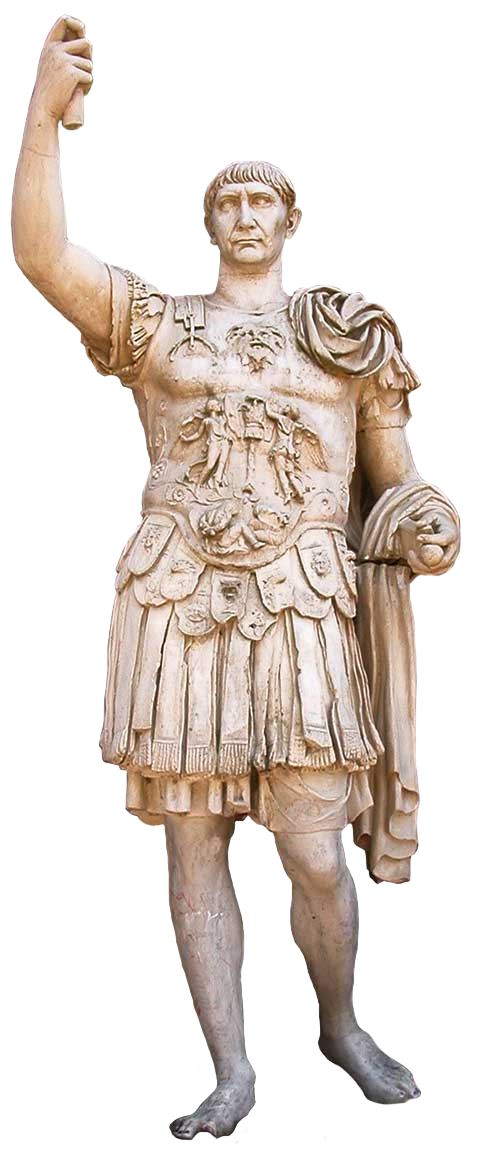
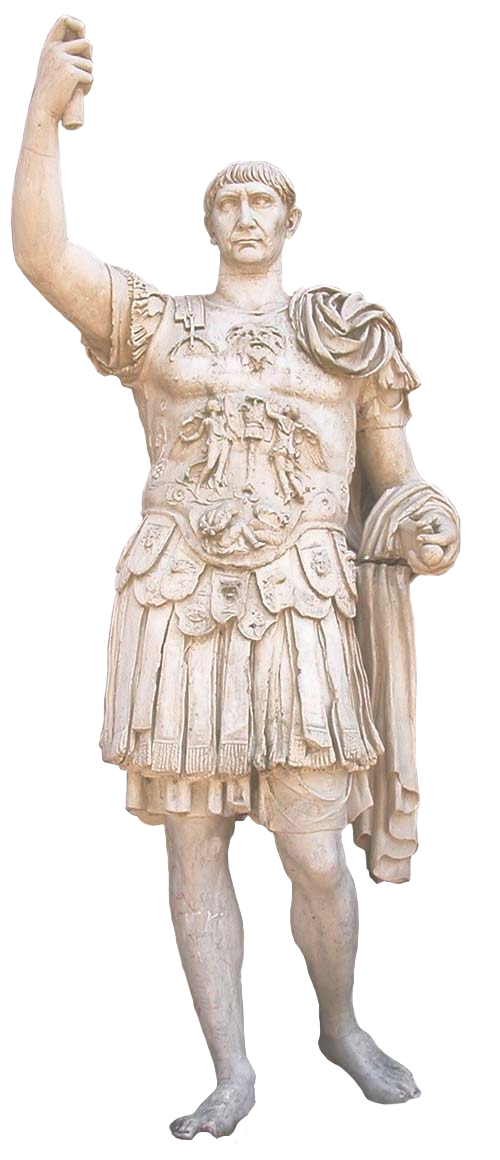
Updates

Changed region(s): [[0.0, 0.0, 0.93, 0.9931]]

diff --git a/src/app/views/reenact/getting-started/getting-started.component.html b/src/app/views/reenact/getting-started/getting-started.component.html
@@ -13,7 +13,7 @@
 			<div>
 				<h2 class="mb-2">Prologue</h2>
 				<p>Imagine yourself as part of a heavily armoured column of Roman soldiers slowly marching along a narrow forest road. The sun beats mercilessly down on you in-between the shadows, and the humming sound of cicadas rattles off of your helmet.</p>
-				<p>You vigilantly scan the dense brush for any sign of the Celtic rebels that have been haunting the area. As the column swings around a sharp bend, there is a sudden commotion to the front, and an officer screams, “shields up” just as a rain of missiles slams into you. No sooner have the projectiles bounced off of your shield than the order to form a battle line is shouted.</p>
+				<p>You vigilantly scan the dense brush for any sign of the Celtic rebels that have been haunting the area. As the column swings around a sharp bend, there is a sudden commotion to the front, and an officer screams, “shields up” just as a rain of missiles slams into you. No sooner have the projectiles clashed against your shield than the order to form a battle line is shouted.</p>
 				<p>As you jostle into position to meet the enemy charge, you turn your head just in time to see the forest come alive with Celtic warriors in a frenzy. Will you live? Will you die? Join Legio XXX and experience the life of legionary first hand.</p>
 				<h2 class="mb-2">Enlisting</h2>
 				<p>

diff --git a/src/app/views/home/home.component.html b/src/app/views/home/home.component.html
@@ -5,7 +5,7 @@
 <!-- ABout -->
 <section id="about" class="d-flex flex-column flex-md-row align-items-center justify-content-center bg-black text-white fill py-5 py-md-0">
 	<div class="d-none d-md-inline flex-grow-1 text-end" style="flex-basis: 0">
-		<img src="/assets/img/trajan2.png" alt="Statue of Trajan" height="450px" width="auto">
+		<img src="/assets/img/trajan.png" alt="Statue of Trajan" height="450px" width="auto">
 	</div>
 	<div class="flex-grow-0 text-center px-5">
 		<h1>About</h1>

diff --git a/src/app/views/reenact/drill/drill.component.html b/src/app/views/reenact/drill/drill.component.html
@@ -45,7 +45,7 @@
 				<tr>
 					<td><em>Laxate</em></td>
 					<td>At Ease</td>
-					<td>Relax with feet shoulder's width apart & equipment resting on the ground; maintain discipline (don't move feet, face the front & remain quite)</td>
+					<td>Relax with feet shoulder's width apart, equipment may rest on the ground; maintain discipline (don't move feet, face the front & remain quite)</td>
 				</tr>
 				<tr class="subtitle">
 					<th colspan="3">Dressing Ranks</th>

diff --git a/src/app/components/banner/banner.component.ts b/src/app/components/banner/banner.component.ts
@@ -21,7 +21,6 @@ export class BannerComponent implements AfterViewInit, OnDestroy, OnInit {
 
 	images = [
 		'/assets/img/banner/aquilifer.jpg',
-		'/assets/img/banner/castra.jpg',
 		'/assets/img/banner/centurio.jpg',
 		'/assets/img/banner/formation.jpg',
 		'/assets/img/banner/ROM.jpg',
